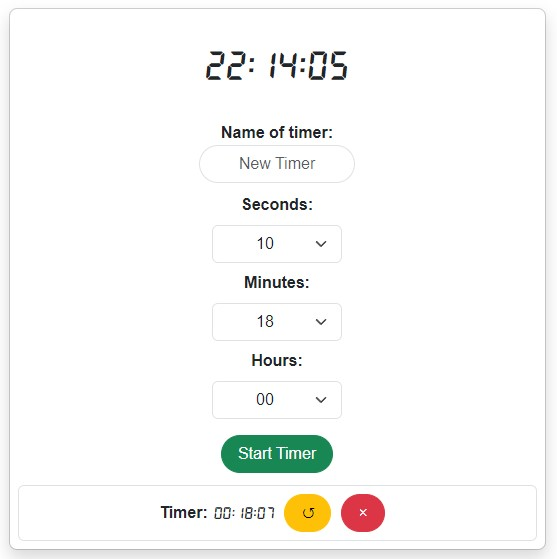
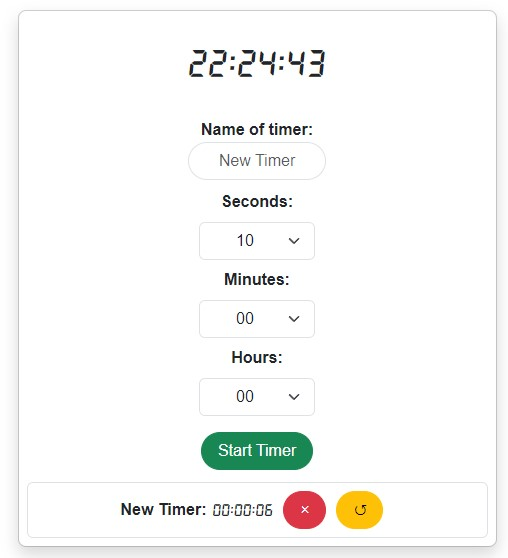
Reset button is now accompanied by reset time

diff --git a/src/Timer.js b/src/Timer.js
@@ -69,7 +69,9 @@ const Timer = (props) => {
   
     // Update the timer's properties
     updateTimerArray((prevTimers) =>
+        // Go through each timer
         prevTimers.map((prevTimer) =>
+          // for the timer if the same id we update timeStamp
           prevTimer.id === timer.id ? { ...prevTimer, timerStamp: newTimerStamp } : prevTimer
         )
       );
@@ -79,7 +81,6 @@ const Timer = (props) => {
     // Reset the timer state to 'active'
     setTimerState('active');
   };
-  
   
 
   // workaround to update the classes of li and button items with boostrap styles depending on timerState
@@ -92,18 +93,24 @@ const Timer = (props) => {
       <strong>{timer.timerName}: </strong><span>{formatTime(remainingTime)}</span>
       
       <button
+        className={classNamesBtnRemove}
+        onClick={handleRemoveClick}
+      >
+        &times;
+      </button>
+
+      {timerState === 'expired' ? <span>{formatTime(timer.timerLen)}</span> : ''}
+
+      <button
         className='btn rounded-pill px-3 btn-warning'
         onClick={handleResetClick}
       >
         &#8634;
       </button>
       
-      <button
-        className={classNamesBtnRemove}
-        onClick={handleRemoveClick}
-      >
-        &times;
-      </button>
+      
+
+      
       
     </li>
   );
